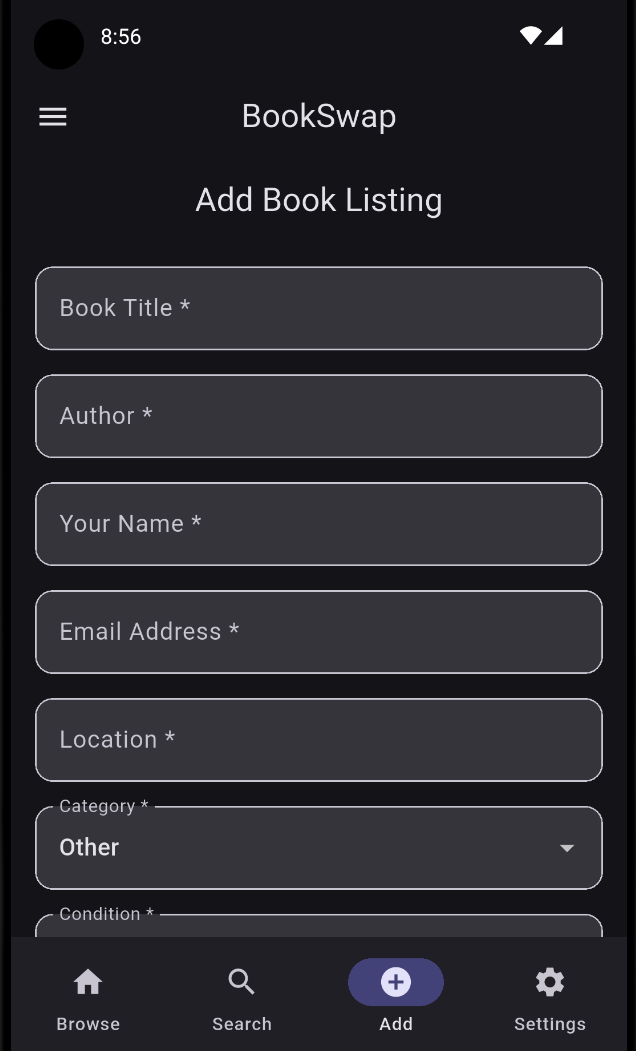
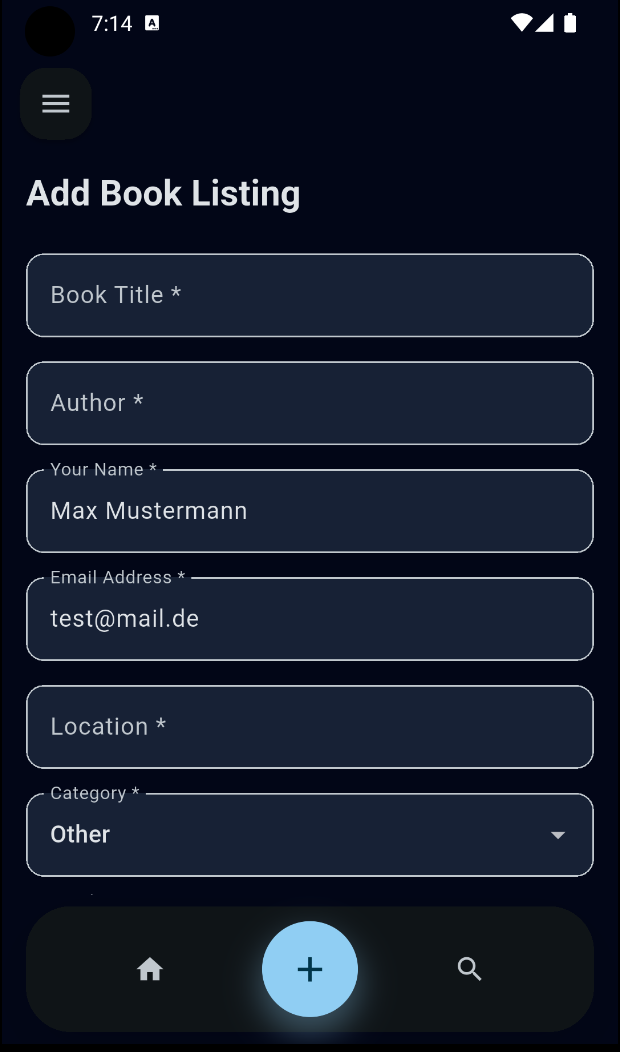
Updated README.md

diff --git a/README.md b/README.md
@@ -1,6 +1,6 @@
-# Book Marketplace App
+# BookSwap Marketplace
 
-A Flutter application that lets users browse, buy, swap, and give away books within their community. Users can post listings with title, author, condition, price, and contact details. The app supports infinite scrolling, search, filtering, and persistent dark/light theme preferences.
+A Flutter application that lets users browse, buy, swap, and give away books within their community. Users can create an account, post listings with title, author, condition, price, and contact details, and manage their own listings (edit & delete). The app supports infinite scrolling, search, category/type filtering, and persistent dark/light theme preferences.
 
 ---
 
@@ -36,9 +36,9 @@ flutter run
 flutter test
 ```
 
-**Firebase Setup (optional)**
+**Firebase Setup**
 
-The app works offline using `assets/data/books.json` as a fallback. To enable Firestore:
+The app requires Firebase for authentication and data persistence.
 
 ```bash
 # Install FlutterFire CLI
@@ -48,11 +48,29 @@ dart pub global activate flutterfire_cli
 flutterfire configure
 ```
 
-Then create a Firestore database in the [Firebase Console](https://console.firebase.google.com) and deploy the security rules:
+Then in the [Firebase Console](https://console.firebase.google.com):
 
+1. **Firestore** — Create a database and deploy security rules:
 ```bash
 firebase deploy --only firestore:rules --project <your-project-id>
 ```
+
+2. **Authentication** — Enable the **Email/Password** sign-in provider under *Authentication → Sign-in method*.
+
+> Without Firebase the app falls back to `assets/data/books.json` for browsing, but login and listing creation will not work.
+
+---
+
+## Features
+
+- **Authentication** — Register and sign in with email and password via Firebase Auth
+- **Browse** — Infinite-scroll book feed with featured "Staff Pick" hero card
+- **Search** — Full-text search by title or author with persistent filter state
+- **Filter** — Filter by category (Fiction, Science, Technology, …) and listing type (Sale, Swap, Free)
+- **CRUD** — Authenticated users can add, edit, and delete their own listings
+- **Book Detail** — Full listing view with cover image, condition badge, and seller contact
+- **Settings** — Change display name, reset password via email, sign out, toggle dark/light theme
+- **About** — App info and developer contacts
 
 ---
 
@@ -60,12 +78,13 @@ firebase deploy --only firestore:rules --project <your-project-id>
 
 | Package | Version | Purpose |
 |---------|---------|---------|
-| `flutter_riverpod` | ^2.5.1 | Reactive state management — manages books list, search, filters, and theme state |
-| `go_router` | ^14.2.4 | Declarative navigation with named routes and deep-link support |
-| `shared_preferences` | ^2.2.2 | Persists the user's light/dark theme preference across app restarts |
-| `cached_network_image` | ^3.3.1 | Efficiently loads and caches book cover images from URLs |
-| `firebase_core` | ^3.3.0 | Firebase SDK initialization required for all Firebase services |
-| `cloud_firestore` | ^5.3.0 | Cloud database for persistent book listings with real-time sync |
+| `flutter_riverpod` | ^2.5.1 | Reactive state management — books list, search, filters, auth, and theme |
+| `go_router` | ^14.2.4 | Declarative navigation with named routes and auth guard |
+| `firebase_core` | ^3.3.0 | Firebase SDK initialization |
+| `firebase_auth` | ^5.3.0 | Email/password user authentication |
+| `cloud_firestore` | ^5.3.0 | Cloud database for persistent book listings |
+| `shared_preferences` | ^2.2.2 | Persists the user's light/dark theme preference |
+| `cached_network_image` | ^3.3.1 | Efficient loading and caching of book cover images |
 | `intl` | ^0.19.0 | Date formatting for listing timestamps |
 | `mockito` | ^5.4.4 | Mocking in unit and widget tests |
 
@@ -75,14 +94,14 @@ firebase deploy --only firestore:rules --project <your-project-id>
 
 ```
 lib/
-├── models/         # BookListing model with fromJson/toJson
-├── services/       # BookService (JSON) + FirestoreBookService (Firebase)
-├── providers/      # BooksNotifier (pagination, search, filter) + ThemeNotifier
-├── screens/        # browse, search, detail, add_listing, settings, about
+├── models/         # BookListing model with fromJson/toJson and coverUrl getter
+├── services/       # BookService (JSON fallback), FirestoreBookService, AuthService
+├── providers/      # BooksNotifier, ThemeNotifier, AuthProvider, SearchFiltersProvider
+├── screens/        # browse, search, detail, add_listing, login, register, settings, about
 ├── widgets/        # BookListTile, ConditionBadge, LoadingWidget, AppErrorWidget, EmptyStateWidget
-├── utils/          # Validators (all validation logic outside widgets)
+├── utils/          # Validators (all form/search validation logic)
 ├── theme/          # Light & dark MaterialTheme definitions
-└── router/         # GoRouter configuration with named routes
+└── router/         # GoRouter configuration with auth guard
 
 assets/
 └── data/books.json # Local seed data (fallback when Firebase is unavailable)
@@ -96,9 +115,10 @@ test/
 
 ---
 
-## Developer
-**Elisa Holzheid**
+## Developers
 
-**Edin Putzu**
-
-**Gino Chianese**
+| Name | Email |
+|------|-------|
+| Gino Chianese | chianese.gino@study.thws.de |
+| Elisa Holzheid | elisa.holzheid@study.thws.de |
+| Edin Putzu | edin.putzu@study.thws.de |
